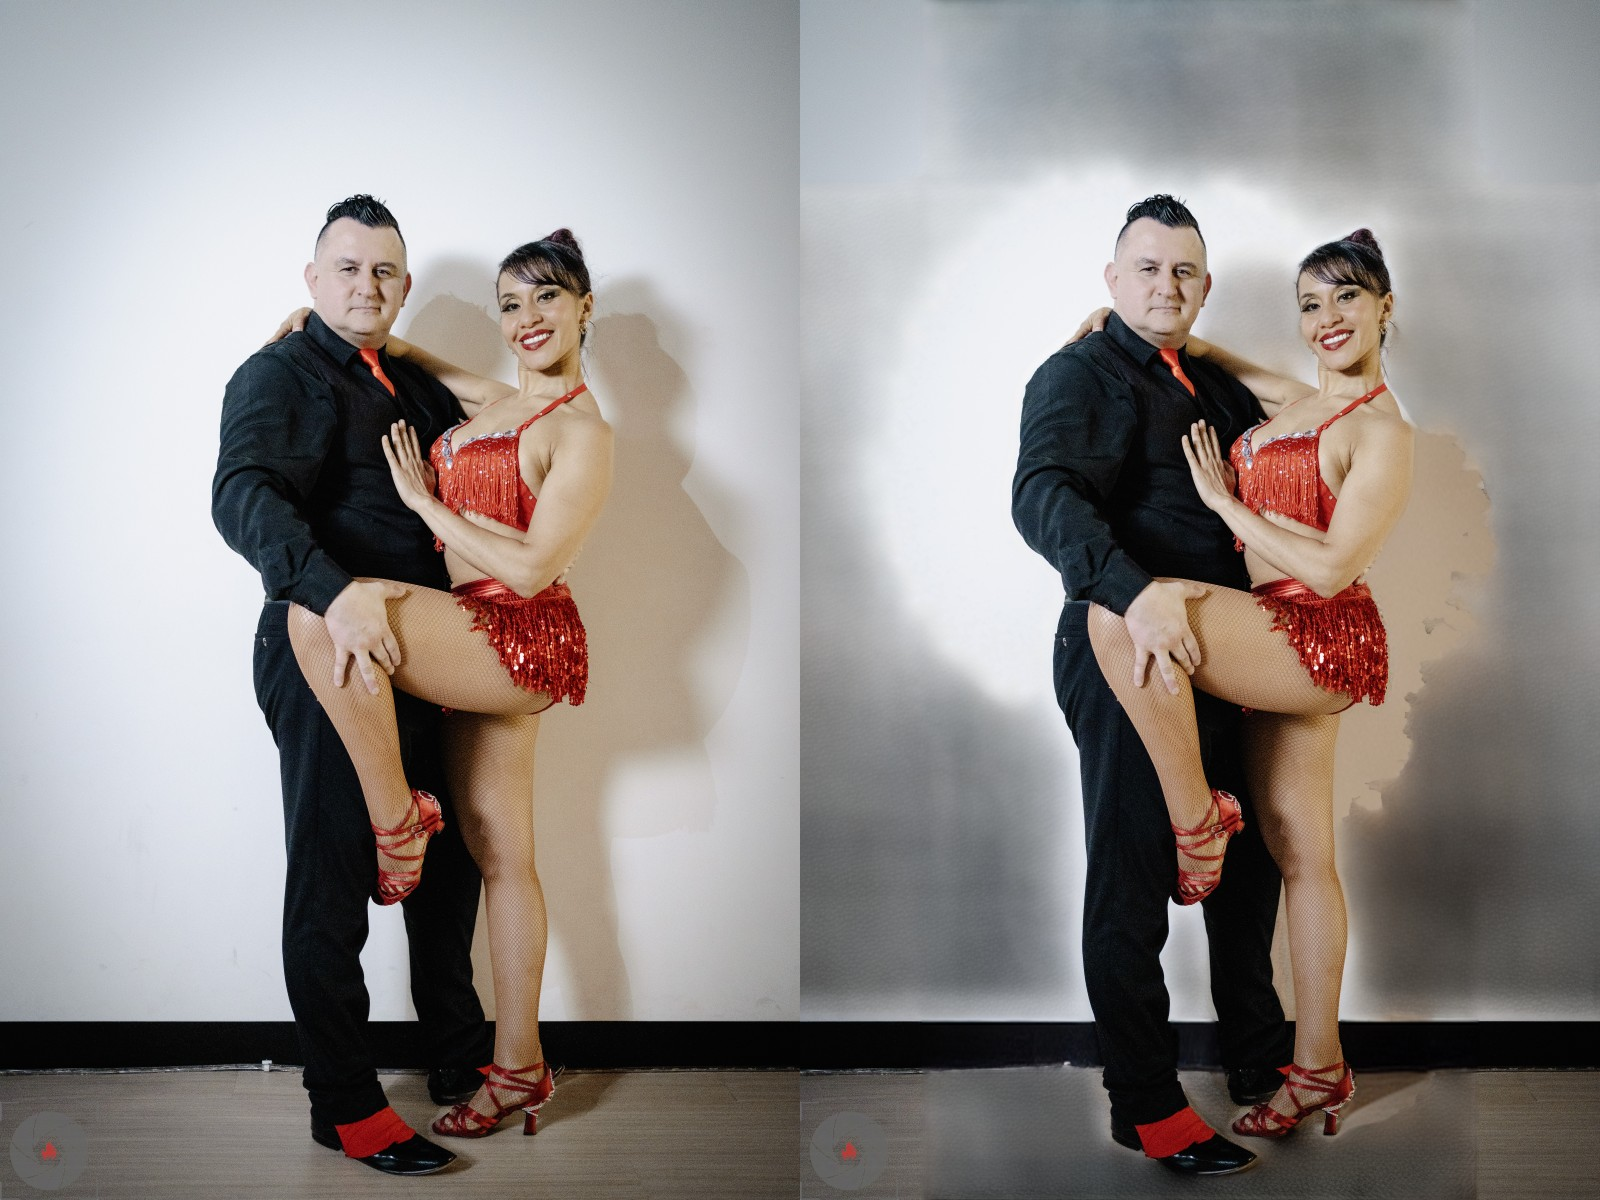
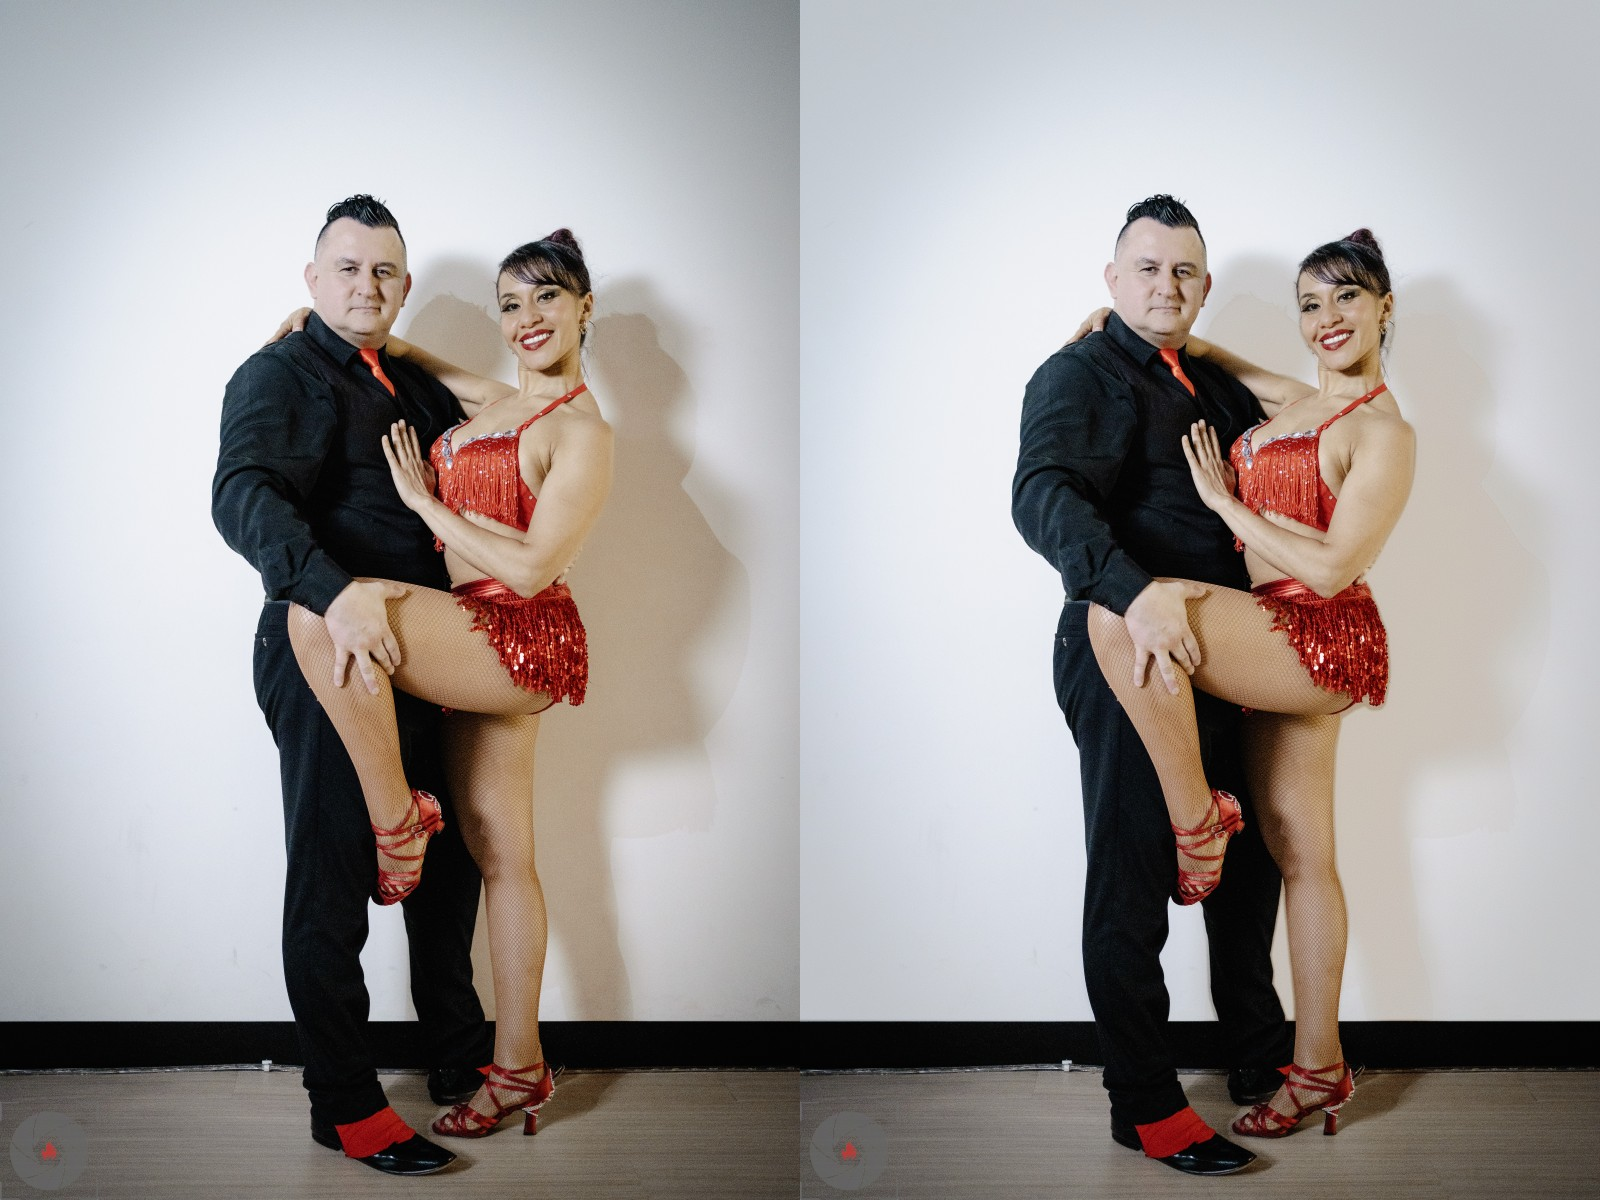
Add before/after example images to README

diff --git a/README.md b/README.md
@@ -4,6 +4,15 @@ Free, open-source tool to clean up studio photo backdrops. Uses a three-techniqu
 
 An alternative to paid tools like Retouch4me Clean Backdrop.
 
+### Before & After
+
+![Before and After](docs/example_preview.jpg)
+*Left: Original with cast shadow and wall marks. Right: Shadow lifted, marks cleaned.*
+
+| Before | After |
+|--------|-------|
+| ![Before](docs/before.jpg) | ![After](docs/after.jpg) |
+
 ## How It Works
 
 Three independent techniques, each tunable:
